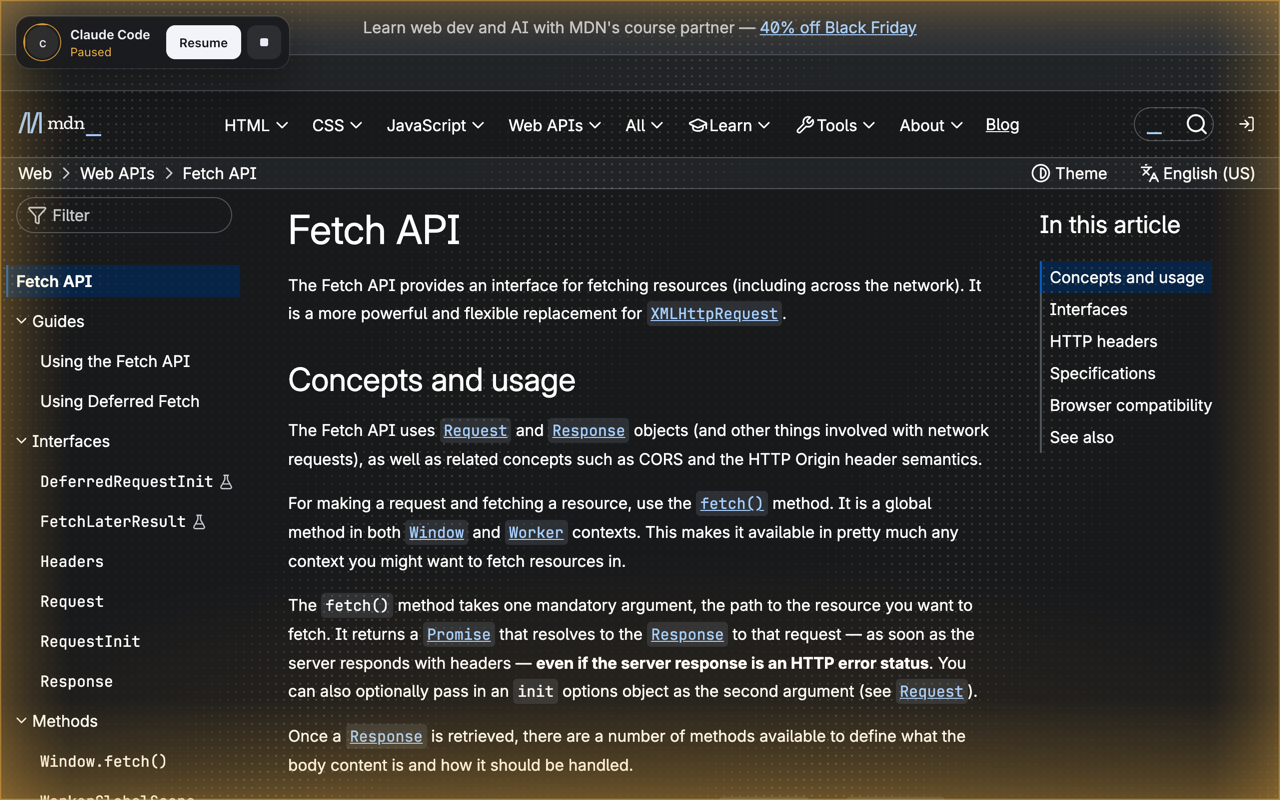
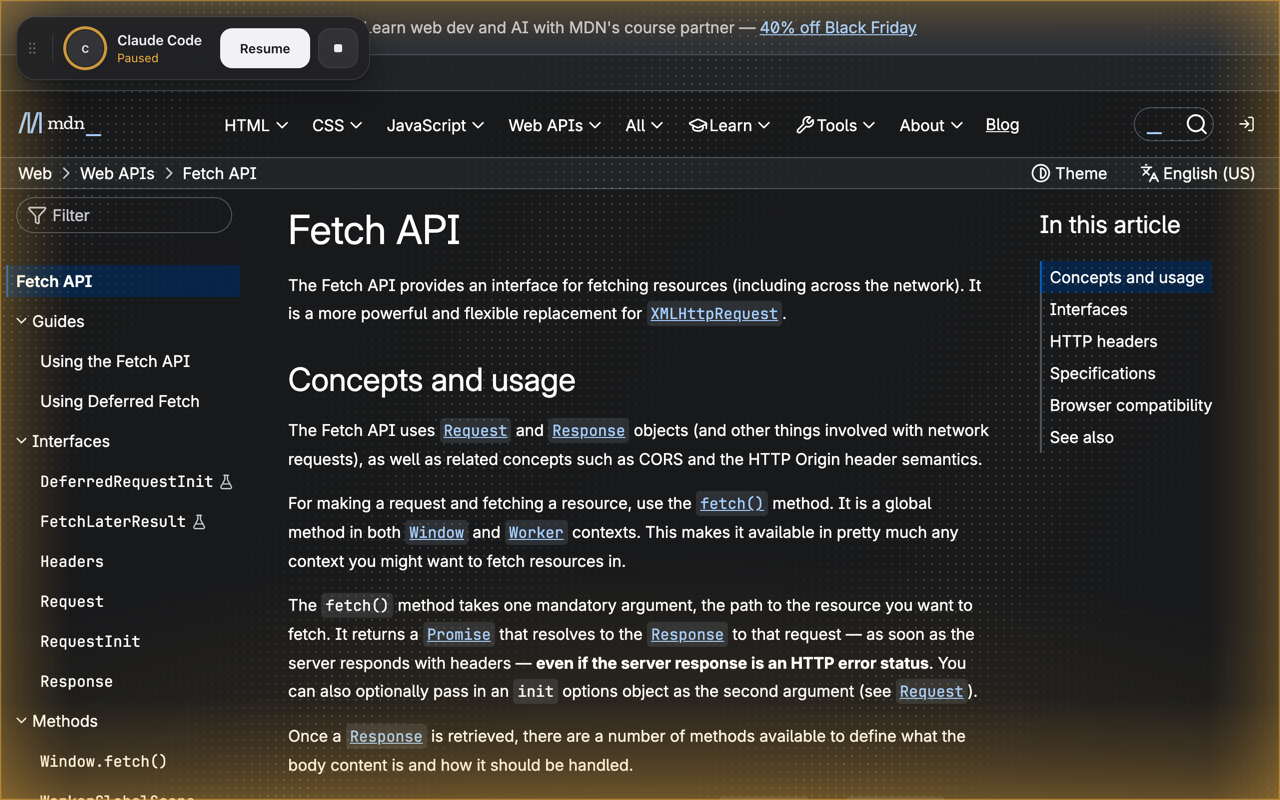
Refine the agent dock and make it draggable
The dock is a sturdier graphite panel: 12 px padding, 20 px corners, a hairline border
and a soft shadow. 40 px buttons with 12 px corners, more room in Take over, square
graphite Pause and Stop, 8 px gaps, a semibold agent name over smaller activity text,
and a 3 px activity ring.

A six-dot grip on the left, behind a thin divider, drags the dock (trusted pointer
input only). It is kept inside the viewport on drag, resize and when its text grows,
and its position is saved in extension storage so it stays put across navigation.

Changed region(s): [[0.0312, 0.0, 0.2812, 0.0938]]

diff --git a/extension/src/content/overlay.ts b/extension/src/content/overlay.ts
@@ -136,26 +136,33 @@ import { agentIdentity, AGENT_LOGO } from '../ui/identity.ts';
   .label i { width: 6px; height: 6px; border-radius: 50%; background: rgb(var(--tone)); box-shadow: 0 0 8px rgb(var(--tone) / .8); flex: none; }
   .label span { overflow: hidden; text-overflow: ellipsis; }
 
-  /* Dock: compact, translucent, contextual. */
-  .dock { position: absolute; left: 16px; top: 16px; display: flex; align-items: center; gap: 12px; padding: 8px 8px 8px 10px; min-height: 52px;
-    border-radius: 14px; color: #eef0f6; pointer-events: none; opacity: 0; translate: 0 -8px; scale: .98; transform-origin: top left;
-    background: rgb(20 21 26 / .80); backdrop-filter: blur(22px) saturate(1.5); -webkit-backdrop-filter: blur(22px) saturate(1.5);
-    box-shadow: 0 0 0 1px rgb(255 255 255 / .09), 0 1px 0 rgb(255 255 255 / .06) inset, 0 18px 44px rgb(0 0 0 / .38);
+  /* Dock: a native-feeling floating control panel. Graphite, hairline border, soft shadow. */
+  .dock { position: absolute; left: 16px; top: 16px; display: flex; align-items: center; gap: 12px; padding: 12px 12px 12px 8px; min-height: 64px;
+    border-radius: 20px; color: #f2f2f4; pointer-events: none; opacity: 0; translate: 0 -8px; scale: .98; transform-origin: top left;
+    background: rgb(32 32 35 / .88); backdrop-filter: blur(24px) saturate(1.4); -webkit-backdrop-filter: blur(24px) saturate(1.4);
+    box-shadow: inset 0 0 0 1px rgb(255 255 255 / .1), inset 0 1px 0 rgb(255 255 255 / .06), 0 2px 6px rgb(0 0 0 / .18), 0 14px 36px rgb(0 0 0 / .34);
     transition: opacity var(--slow) var(--ease-out), translate var(--slow) var(--ease-out), scale var(--slow) var(--ease-out), width var(--slow) var(--ease-io);
-    interpolate-size: allow-keywords; max-width: calc(100vw - 32px); }
+    interpolate-size: allow-keywords; max-width: calc(100vw - 16px); }
   .dock.show { opacity: 1; translate: 0 0; scale: 1; pointer-events: auto; }
-  .mark { position: relative; width: 32px; height: 32px; flex: none; display: grid; place-items: center; border-radius: 50%; background: rgb(255 255 255 / .07); }
-  .mark svg { width: 17px; height: 17px; color: #e8ebf5; }
-  .mark::after { content: ""; position: absolute; inset: -3px; border-radius: 50%; padding: 1.5px; opacity: 0; transition: opacity var(--base);
-    background: conic-gradient(rgb(var(--tone)) 0 24%, rgb(var(--tone) / 0) 46% 100%);
+  .dock.dragging { transition: none; cursor: grabbing; }
+  .grip { flex: none; width: 16px; height: 40px; display: grid; place-items: center; border-radius: 6px; color: rgb(255 255 255 / .32); cursor: grab; touch-action: none;
+    transition: color var(--fast), background var(--fast); }
+  .grip:hover { color: rgb(255 255 255 / .62); }
+  .dragging .grip { cursor: grabbing; color: rgb(255 255 255 / .75); }
+  .grip svg { width: 6px; height: 12px; }
+  .divider { flex: none; width: 1px; height: 28px; margin-right: 2px; background: rgb(255 255 255 / .1); }
+  .mark { position: relative; width: 36px; height: 36px; flex: none; display: grid; place-items: center; border-radius: 50%; background: rgb(255 255 255 / .08); }
+  .mark svg { width: 18px; height: 18px; color: #ececf0; }
+  .mark::after { content: ""; position: absolute; inset: -4px; border-radius: 50%; padding: 3px; opacity: 0; transition: opacity var(--base);
+    background: conic-gradient(rgb(var(--tone)) 0 28%, rgb(var(--tone) / 0) 52% 100%);
     -webkit-mask: linear-gradient(#000 0 0) content-box, linear-gradient(#000 0 0); -webkit-mask-composite: xor; mask-composite: exclude; }
-  .agent .mark::after { opacity: .95; animation: orbit 2.6s linear infinite; }
-  .busy .mark::after { animation-duration: 1.05s; }
+  .agent .mark::after { opacity: .95; animation: orbit 2.8s linear infinite; }
+  .busy .mark::after { animation-duration: 1.4s; }
   .paused .mark::after { opacity: .9; animation: none; background: rgb(var(--amber) / .9); }
   @keyframes orbit { to { rotate: 360deg } }
-  .txt { display: flex; flex-direction: column; gap: 2px; min-width: 0; padding-right: 4px; }
-  .t1 { font-size: 13px; font-weight: 650; letter-spacing: -.01em; white-space: nowrap; }
-  .t2 { font-size: 12px; white-space: nowrap; overflow: hidden; text-overflow: ellipsis; max-width: 300px; color: #9aa1b5; }
+  .txt { display: flex; flex-direction: column; gap: 2px; min-width: 0; margin-left: 2px; margin-right: 6px; }
+  .t1 { font-size: 14px; font-weight: 600; letter-spacing: -.01em; white-space: nowrap; }
+  .t2 { font-size: 12px; white-space: nowrap; overflow: hidden; text-overflow: ellipsis; max-width: 300px; color: #9a9aa2; }
   .agent .t2 { color: rgb(var(--red-text)); }
   .paused .t2 { color: rgb(var(--amber)); }
   .need .t2 { color: #ffb36b; }
@@ -165,26 +172,27 @@ import { agentIdentity, AGENT_LOGO } from '../ui/identity.ts';
   @keyframes sweep { 0% { background-position: 100% 0 } 70%, 100% { background-position: 0% 0 } }
   .swap .txt, .swap .btns { animation: swap var(--base) var(--ease-out); }
   @keyframes swap { from { opacity: 0; translate: 0 3px } }
-  .btns { display: flex; align-items: center; gap: 6px; }
-  button { all: unset; box-sizing: border-box; cursor: pointer; height: 34px; padding: 0 13px; border-radius: 9px; display: inline-flex; align-items: center; gap: 6px;
-    font-size: 12.5px; font-weight: 600; color: #e9ecf4; background: rgb(255 255 255 / .08);
+  .btns { display: flex; align-items: center; gap: 8px; }
+  button { all: unset; box-sizing: border-box; cursor: pointer; height: 40px; padding: 0 20px; border-radius: 12px; display: inline-flex; align-items: center; justify-content: center; gap: 6px;
+    font-size: 13px; font-weight: 600; color: #ececf0; background: rgb(255 255 255 / .07); box-shadow: inset 0 0 0 1px rgb(255 255 255 / .06);
     transition: background var(--fast) var(--ease-out), color var(--fast), scale var(--fast) var(--ease-out); }
-  button:hover { background: rgb(255 255 255 / .14); }
+  button:hover { background: rgb(255 255 255 / .12); }
   button:active { scale: .97; }
   button:focus-visible { outline: 2px solid rgb(var(--red)); outline-offset: 2px; }
-  button.primary { background: #f2f4fa; color: #14161c; }
+  button.primary { background: #f2f2f4; color: #141416; box-shadow: none; }
   button.primary:hover { background: #fff; }
-  button.accent { background: rgb(230 38 58); color: #fff; }
+  button.accent { background: rgb(230 38 58); color: #fff; box-shadow: none; }
   button.accent:hover { background: rgb(245 56 75); }
-  button.icon { width: 34px; padding: 0; justify-content: center; }
+  button.icon { width: 40px; padding: 0; }
   button.icon svg { width: 14px; height: 14px; }
-  button.stop:hover { background: rgb(250 82 82 / .18); color: #ff8f8f; }
+  button.stop:hover { background: rgb(250 82 82 / .16); color: #ff8f8f; }
   button[hidden] { display: none; }
   @media (prefers-reduced-motion: reduce) { .edge::after, .mark::after, .busy .t2, .cursor.idle .arrow, .cursor.idle .label { animation: none !important; } }
   `;
 
   const ARROW = `<svg class="arrow" viewBox="0 0 22 24" aria-hidden="true"><path d="M3.2 2.3c-.4-.3-1 0-.9.6l2.3 17.6c.1.6.9.8 1.2.2l3.6-6.2 7.1.2c.6 0 .9-.7.5-1.1Z" fill="#0d0f14" stroke="#fff" stroke-width="2" stroke-linejoin="round"/></svg>`;
   const ICON_PAUSE = `<svg viewBox="0 0 14 14"><rect x="3" y="2.5" width="2.6" height="9" rx="1" fill="currentColor"/><rect x="8.4" y="2.5" width="2.6" height="9" rx="1" fill="currentColor"/></svg>`;
+  const ICON_GRIP = `<svg viewBox="0 0 6 12"><g fill="currentColor"><circle cx="1" cy="1.5" r="1"/><circle cx="5" cy="1.5" r="1"/><circle cx="1" cy="6" r="1"/><circle cx="5" cy="6" r="1"/><circle cx="1" cy="10.5" r="1"/><circle cx="5" cy="10.5" r="1"/></g></svg>`;
   const ICON_STOP = `<svg viewBox="0 0 14 14"><rect x="3" y="3" width="8" height="8" rx="1.8" fill="currentColor"/></svg>`;
 
   function buildUi() {
@@ -199,6 +207,8 @@ import { agentIdentity, AGENT_LOGO } from '../ui/identity.ts';
         <div class="blocker"></div>
         <div class="cursor">${ARROW}<div class="label"><i></i><span></span></div></div>
         <div class="dock" role="toolbar" aria-label="Agent control">
+          <div class="grip" title="Drag to move" aria-hidden="true">${ICON_GRIP}</div>
+          <div class="divider" aria-hidden="true"></div>
           <div class="mark"></div>
           <div class="txt"><span class="t1"></span><span class="t2" aria-live="polite"></span></div>
           <div class="btns">
@@ -223,6 +233,7 @@ import { agentIdentity, AGENT_LOGO } from '../ui/identity.ts';
       if (!b) return;
       void chrome.runtime.sendMessage({ type: 'overtake:human', action: b.dataset.a! }).catch(() => teardown());
     });
+    bindDrag(root.querySelector('.grip') as HTMLElement);
     // Swallow everything that reaches the blocker.
     for (const t of ['pointerdown', 'mousedown', 'click', 'wheel', 'contextmenu', 'dblclick']) {
       el.blocker.addEventListener(t, (e) => {
@@ -231,6 +242,66 @@ import { agentIdentity, AGENT_LOGO } from '../ui/identity.ts';
       }, { passive: false });
     }
     attachHost();
+  }
+
+  // ---------------------------------------------------------------------------
+  // Dock dragging: by the grip only, trusted pointer input only, always kept inside the viewport.
+  // The position is kept in extension storage (pages cannot read it) so it survives navigation.
+
+  const DOCK_MARGIN = 8;
+  const DOCK_KEY = 'overtake.dockPos';
+  let dockPos: { x: number; y: number } | null = null;
+
+  function placeDock(x: number, y: number) {
+    const d = el.dock;
+    if (!d) return;
+    const maxX = Math.max(DOCK_MARGIN, innerWidth - d.offsetWidth - DOCK_MARGIN);
+    const maxY = Math.max(DOCK_MARGIN, innerHeight - d.offsetHeight - DOCK_MARGIN);
+    dockPos = { x: Math.round(Math.min(Math.max(DOCK_MARGIN, x), maxX)), y: Math.round(Math.min(Math.max(DOCK_MARGIN, y), maxY)) };
+    d.style.left = `${dockPos.x}px`;
+    d.style.top = `${dockPos.y}px`;
+  }
+
+  function bindDrag(grip: HTMLElement) {
+    try {
+      chrome.storage.local.get(DOCK_KEY).then((r) => {
+        const p = r?.[DOCK_KEY] as { x?: unknown; y?: unknown } | undefined;
+        if (p && typeof p.x === 'number' && typeof p.y === 'number') placeDock(p.x, p.y);
+      }).catch(() => {});
+    } catch {
+      /* extension context gone (reloaded): keep the default position */
+    }
+    grip.addEventListener('pointerdown', (e) => {
+      if (!e.isTrusted || e.button !== 0) return;
+      e.preventDefault();
+      const r = el.dock.getBoundingClientRect();
+      const ox = e.clientX - r.left;
+      const oy = e.clientY - r.top;
+      grip.setPointerCapture(e.pointerId);
+      el.dock.classList.add('dragging');
+      const move = (ev: PointerEvent) => {
+        if (ev.isTrusted) placeDock(ev.clientX - ox, ev.clientY - oy);
+      };
+      const end = () => {
+        grip.removeEventListener('pointermove', move);
+        grip.removeEventListener('pointerup', end);
+        grip.removeEventListener('pointercancel', end);
+        el.dock.classList.remove('dragging');
+        try {
+          if (dockPos) void chrome.storage.local.set({ [DOCK_KEY]: dockPos }).catch(() => {});
+        } catch {
+          /* extension context gone */
+        }
+      };
+      grip.addEventListener('pointermove', move);
+      grip.addEventListener('pointerup', end);
+      grip.addEventListener('pointercancel', end);
+    });
+    // Keep the dock reachable when the window shrinks or the dock grows with longer text.
+    addEventListener('resize', () => dockPos && placeDock(dockPos.x, dockPos.y));
+    el.dock.addEventListener('transitionend', (e) => {
+      if (e.propertyName === 'width' && dockPos) placeDock(dockPos.x, dockPos.y);
+    });
   }
 
   function attachHost() {
@@ -356,6 +427,7 @@ import { agentIdentity, AGENT_LOGO } from '../ui/identity.ts';
     // A stop is acknowledged briefly, then the dock gets out of the way.
     if (stoppedTimer) clearTimeout(stoppedTimer);
     el.dock.classList.toggle('show', !!t1);
+    if (dockPos) placeDock(dockPos.x, dockPos.y);
     if (s.control === 'STOPPED') stoppedTimer = setTimeout(() => el.dock.classList.remove('show'), 3000);
 
     field!.setSurface(pageIsLight());

diff --git a/tests/e2e/acceptance.test.ts b/tests/e2e/acceptance.test.ts
@@ -205,6 +205,36 @@ test('14-15. human gives control back from the dock; the agent resumes', async (
   assert.equal(await count(), before + 1);
 });
 
+test('the dock drags by its grip, stays in the viewport, and the drag never reaches the page', async () => {
+  const gripBox = async () => {
+    const n = await h.overlayElement(human, (x) => (x.attributes || []).some((a: string, i: number, arr: string[]) => a === 'class' && arr[i + 1] === 'grip'));
+    assert.ok(n, 'dock has a grip');
+    const { model } = await h.browser.send<{ model: { content: number[] } }>('DOM.getBoxModel', { backendNodeId: n!.backendNodeId }, human);
+    const c = model.content;
+    return { x: (c[0] + c[4]) / 2, y: (c[1] + c[5]) / 2 };
+  };
+  const drag = async (from: { x: number; y: number }, dx: number, dy: number) => {
+    await h.browser.send('Input.dispatchMouseEvent', { type: 'mouseMoved', x: from.x, y: from.y, button: 'none' }, human);
+    await h.browser.send('Input.dispatchMouseEvent', { type: 'mousePressed', x: from.x, y: from.y, button: 'left', clickCount: 1 }, human);
+    for (let i = 1; i <= 8; i++) await h.browser.send('Input.dispatchMouseEvent', { type: 'mouseMoved', x: from.x + (dx * i) / 8, y: from.y + (dy * i) / 8, button: 'left', buttons: 1 }, human);
+    await h.browser.send('Input.dispatchMouseEvent', { type: 'mouseReleased', x: from.x + dx, y: from.y + dy, button: 'left', clickCount: 1 }, human);
+    await sleep(100);
+  };
+  const before = await count();
+  const g0 = await gripBox();
+  await drag(g0, 260, 180);
+  const g1 = await gripBox();
+  assert.ok(Math.abs(g1.x - g0.x - 260) < 3 && Math.abs(g1.y - g0.y - 180) < 3, `dock moved with the grip: ${JSON.stringify({ g0, g1 })}`);
+  // Dragged far past the bottom right corner, it stops at the viewport edge.
+  await drag(g1, 5000, 5000);
+  const vp = await h.eval<{ w: number; h: number }>(human, '({ w: innerWidth, h: innerHeight })');
+  const g2 = await gripBox();
+  assert.ok(g2.x < vp.w && g2.y < vp.h, `dock stays inside the viewport: ${JSON.stringify({ g2, vp })}`);
+  assert.equal(await count(), before, 'the drag did not click the page');
+  assert.match(await h.overlayClasses(human, 'wrap'), /\bagent\b/, 'the agent is still in control after a drag');
+  await drag(g2, -5000, -5000); // back to the top left for the tests that follow
+});
+
 test('a take-over during a wait is reported at once, not masked as a timeout', async () => {
   const pending = A.call('browser_wait', { tabId: space.tabId, function: 'false', timeoutMs: 20_000 }).then(() => 'resolved', (e) => code(e));
   await sleep(500);

diff --git a/README.md b/README.md
@@ -139,6 +139,7 @@ needed.
 | Control | Where |
 |---|---|
 | Take over, pause, resume, stop, give back | The dock on every Space tab |
+| Move the dock | Drag the grip on its left edge; it stays where you put it |
 | Open the Spaces overview | Toolbar icon, or `Alt+Shift+S` |
 | Take over or give back | `Alt+Shift+E` |
 | New Space | `N` on the Spaces overview, or the **New Space** card |
